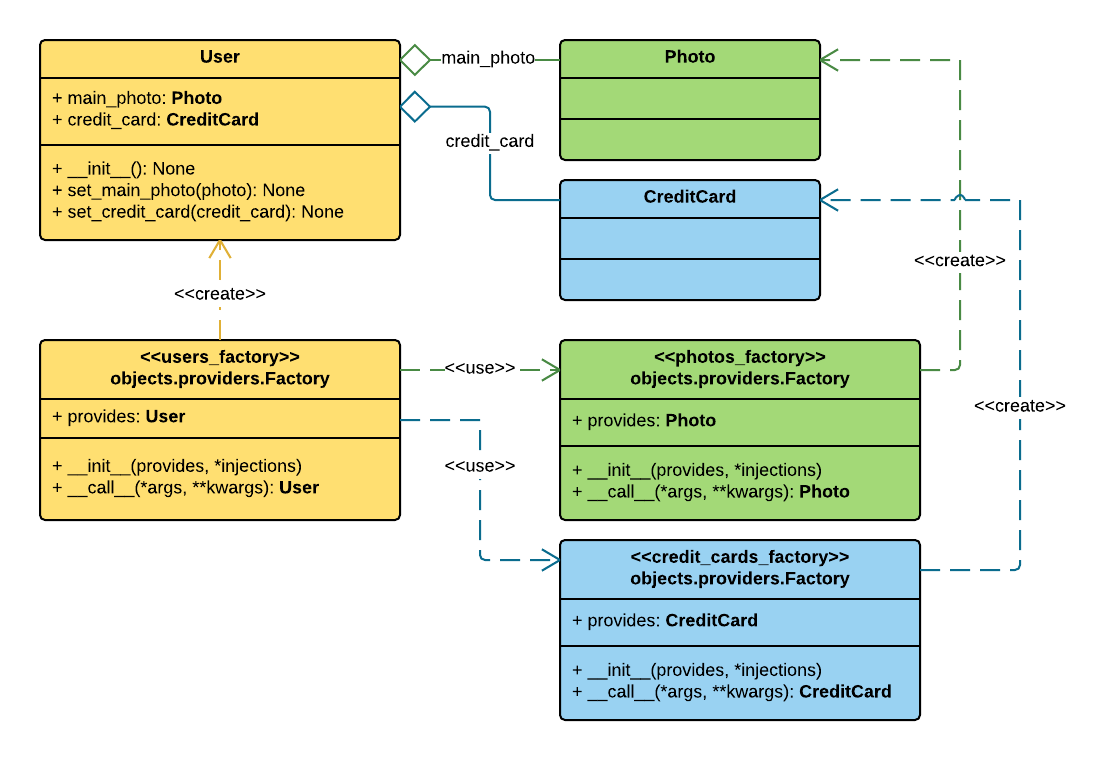
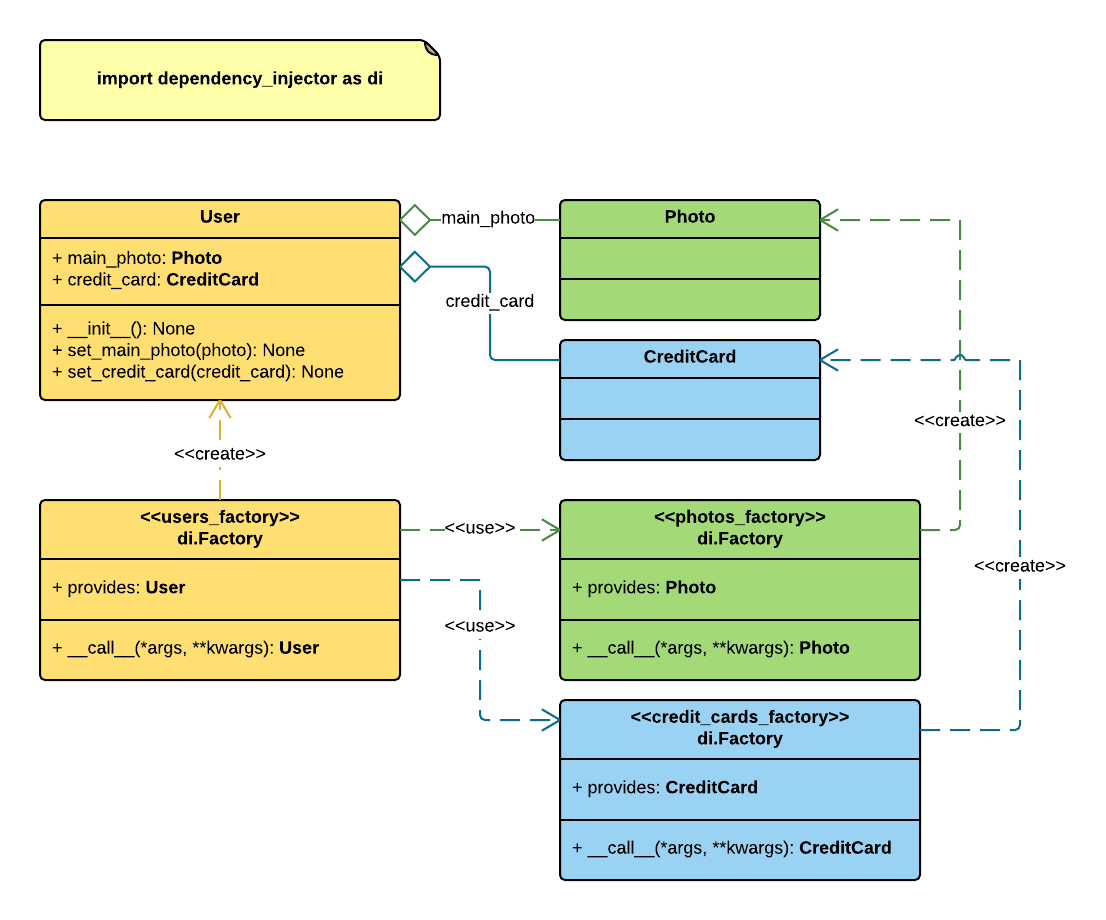
Update Factory method injections docs

diff --git a/examples/providers/factory_method_injections.py b/examples/providers/factory_method_injections.py
@@ -1,7 +1,6 @@
-"""`Factory` providers with method injections example."""
+"""`di.Factory` providers with method injections example."""
 
-from dependency_injector.providers import Factory
-from dependency_injector.injections import Method
+import dependency_injector as di
 
 
 class User(object):
@@ -32,11 +31,11 @@ class CreditCard(object):
     """Example class CreditCard."""
 
 # User, Photo and CreditCard factories:
-credit_cards_factory = Factory(CreditCard)
-photos_factory = Factory(Photo)
-users_factory = Factory(User,
-                        Method('set_main_photo', photos_factory),
-                        Method('set_credit_card', credit_cards_factory))
+credit_cards_factory = di.Factory(CreditCard)
+photos_factory = di.Factory(Photo)
+users_factory = di.Factory(User,
+                           di.Method('set_main_photo', photos_factory),
+                           di.Method('set_credit_card', credit_cards_factory))
 
 # Creating several User objects:
 user1 = users_factory()

diff --git a/docs/providers/factory.rst b/docs/providers/factory.rst
@@ -86,13 +86,13 @@ Example:
 Factory providers and method injections
 ~~~~~~~~~~~~~~~~~~~~~~~~~~~~~~~~~~~~~~~
 
-Current example shows how to create ``Factory`` of particular class with
+Current example shows how to create ``di.Factory`` of particular class with
 method injections. Those injections are done by calling of specified method
 with injectable value right after object's creation and attribute injections
 are done.
 
 Method injections are not very popular in Python due Python best practices
-(usage of public attributes instead of setter methods), but it may appear in
+(usage of public attributes instead of setter methods), but they may appear in
 some cases.
 
 Example:
